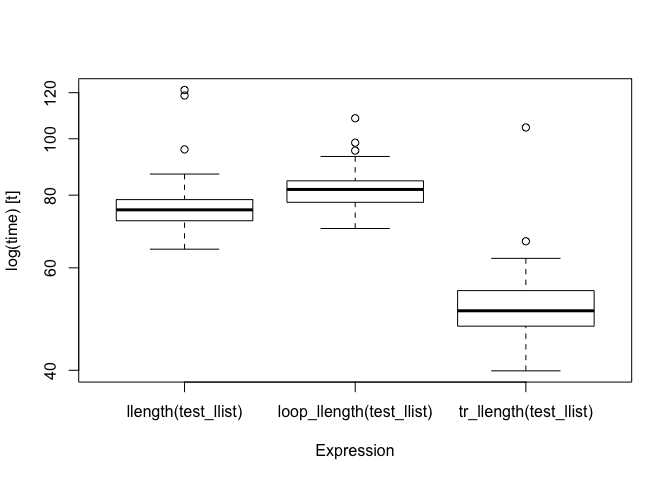
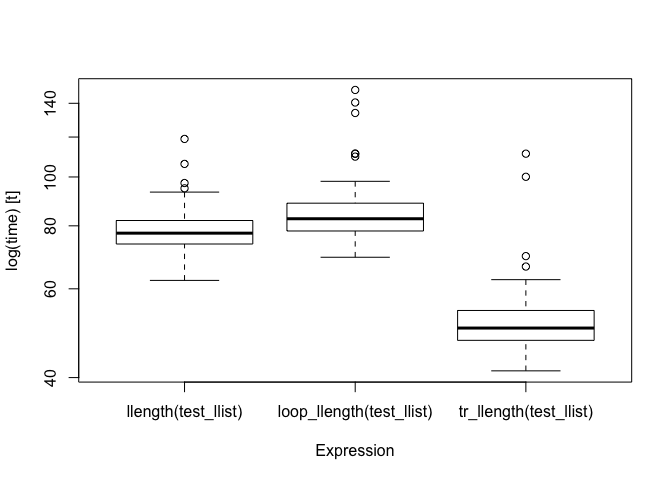
Added default byte compilation

diff --git a/README.md b/README.md
@@ -8,7 +8,7 @@ state and is being actively
 developed.](http://www.repostatus.org/badges/latest/active.svg)](http://www.repostatus.org/#active)
 [![lifecycle](http://img.shields.io/badge/lifecycle-experimental-orange.svg)](https://www.tidyverse.org/lifecycle/#experimental)
 [![Licence](https://img.shields.io/badge/licence-GPL--3-blue.svg)](https://www.gnu.org/licenses/gpl-3.0.en.html)
-[![Last-changedate](https://img.shields.io/badge/last%20change-2018--02--28-orange.svg)](/commits/master)
+[![Last-changedate](https://img.shields.io/badge/last%20change-2018--03--01-orange.svg)](/commits/master)
 [![packageversion](https://img.shields.io/badge/Package%20version-0.1.0.9000-orange.svg?style=flat-square)](commits/master)
 
 [![Travis build
@@ -67,7 +67,7 @@ factorial <- function(n, acc = 1) {
 We can then, automatically, translate that into a looping version:
 
 ``` r
-tr_factorial <- tailr::loop_transform(factorial)
+tr_factorial <- tailr::loop_transform(factorial, byte_compile = FALSE)
 tr_factorial
 #> function (n, acc = 1) 
 #> {
@@ -91,7 +91,12 @@ tr_factorial(100)
 #> [1] 9.332622e+157
 ```
 
-We can then compare the running time with the recursive function and a
+I have disabled byte compilation to make running time comparisons fair;
+by default it is enabled. For a function as simple as `factorial`,
+though, byte compiling will not affect the running time in any
+substantial amount.
+
+We can compare the running time with the recursive function and a
 version that is written using a loop:
 
 ``` r
@@ -111,10 +116,10 @@ bm <- microbenchmark::microbenchmark(factorial(n),
                                      tr_factorial(n))
 bm
 #> Unit: microseconds
-#>               expr     min       lq      mean    median        uq      max
-#>       factorial(n) 866.557 925.8215 1296.7829 1132.6240 1383.6285 6029.079
-#>  loop_factorial(n)  65.069  66.1350  106.4048   68.7425   96.4105 2719.334
-#>    tr_factorial(n) 179.434 191.6275  270.9018  211.2115  314.7210  572.851
+#>               expr     min      lq      mean   median       uq       max
+#>       factorial(n) 861.072 972.132 1437.0898 1195.014 1592.341 11238.499
+#>  loop_factorial(n)  59.110  63.269  114.9509   66.025   98.858  3328.601
+#>    tr_factorial(n) 183.286 206.518  303.7384  246.107  345.306   749.137
 #>  neval
 #>    100
 #>    100
@@ -229,6 +234,7 @@ tr_llength
 #>         }
 #>     })
 #> }
+#> <bytecode: 0x7fb467e45238>
 ```
 
 but, then, it is not one we want to manually inspect in any case.
@@ -251,13 +257,13 @@ bm <- microbenchmark::microbenchmark(llength(test_llist),
 bm
 #> Unit: milliseconds
 #>                      expr      min       lq     mean   median       uq
-#>       llength(test_llist) 64.59915 72.29105 76.27258 75.48120 78.59879
-#>  loop_llength(test_llist) 70.10497 77.76362 81.55232 81.82694 84.65994
-#>    tr_llength(test_llist) 39.91190 47.63133 51.90741 50.62078 54.83012
+#>       llength(test_llist) 62.34987 73.62407 78.33209 77.36216 81.96653
+#>  loop_llength(test_llist) 69.30205 78.13585 85.31827 82.62961 88.71464
+#>    tr_llength(test_llist) 41.25113 47.41965 52.15089 50.15381 54.34982
 #>       max neval
-#>  121.3059   100
-#>  108.4509   100
-#>  104.5723   100
+#>  118.9726   100
+#>  148.7936   100
+#>  111.2254   100
 boxplot(bm)
 ```
 
